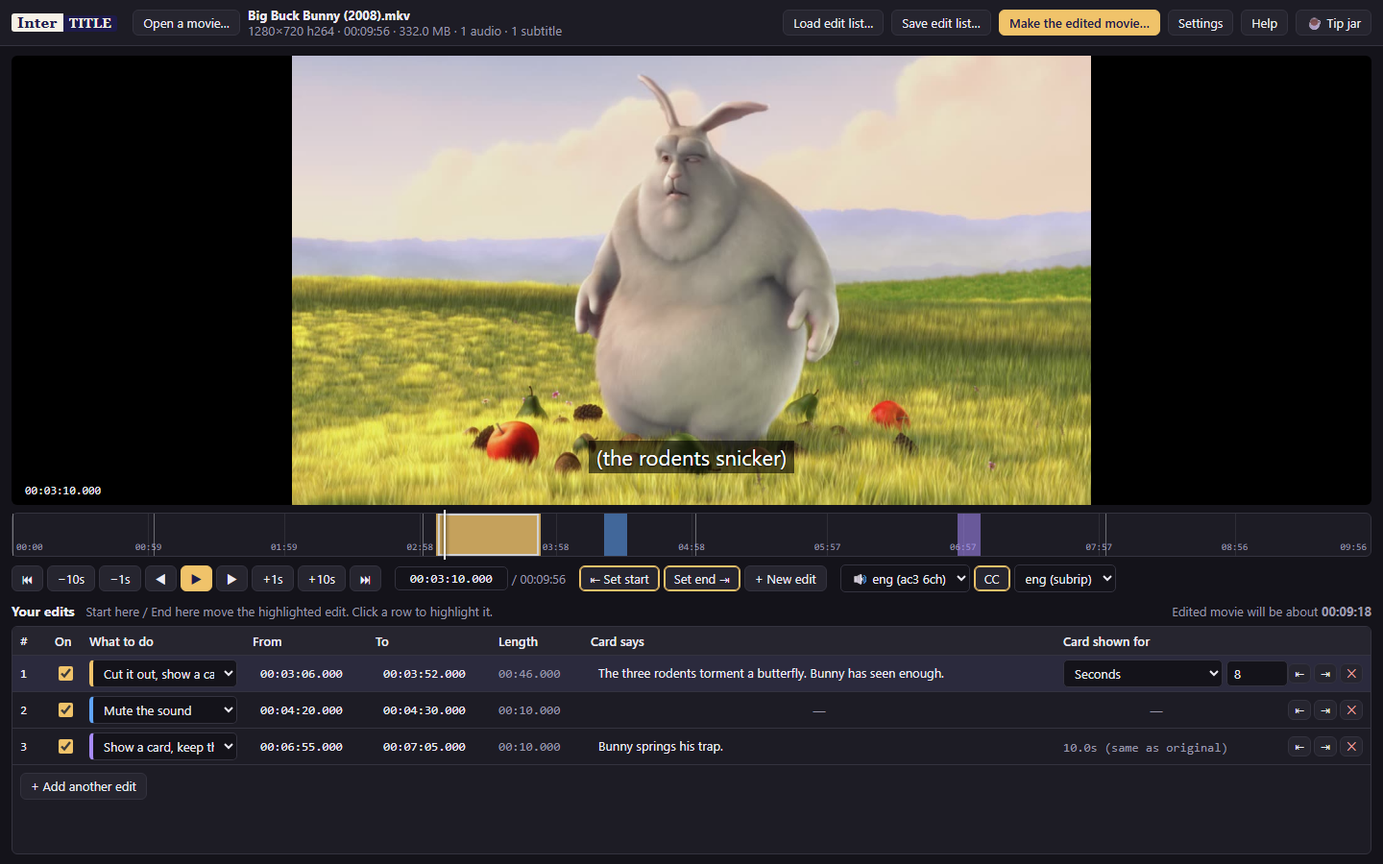
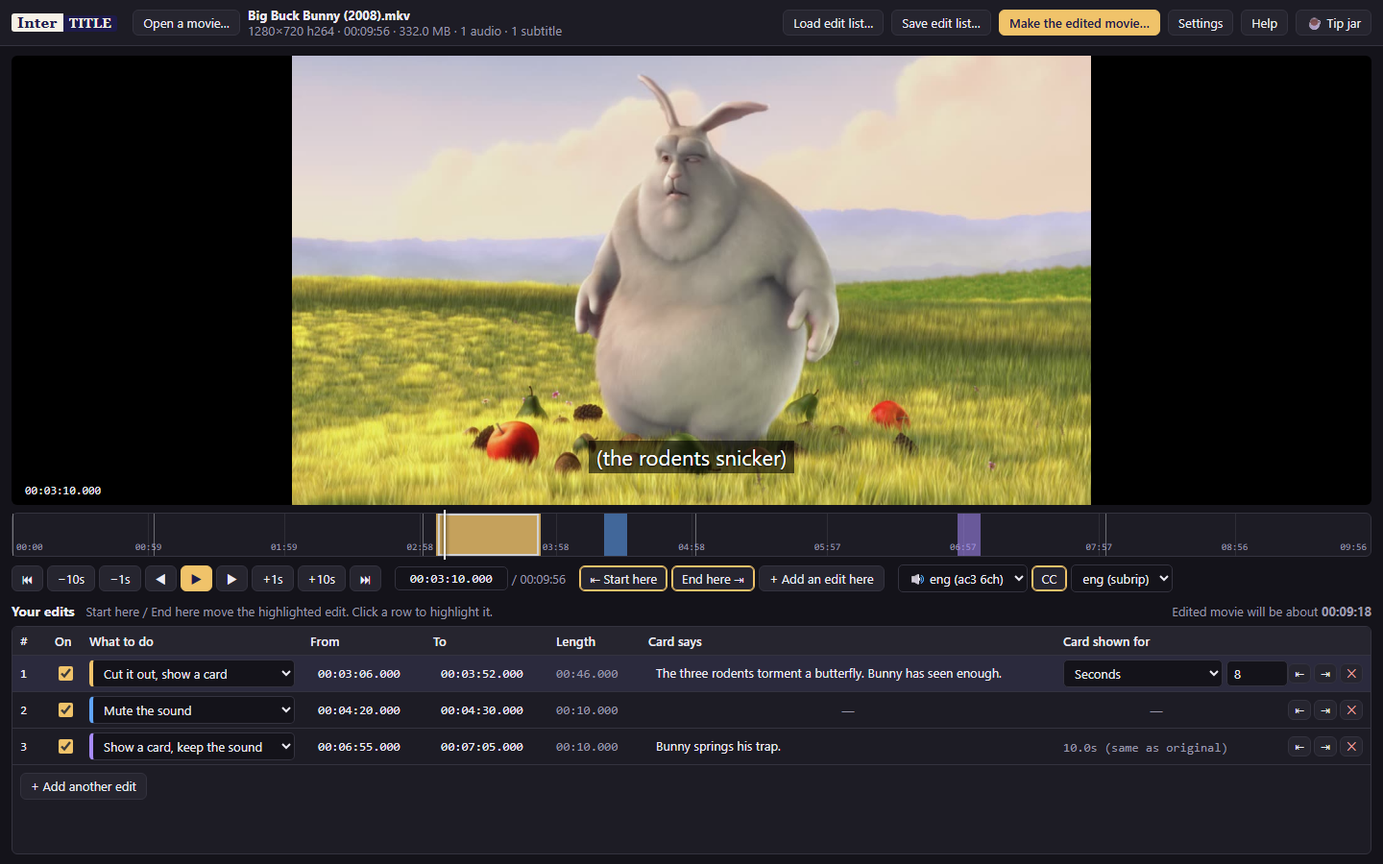
Website: demo video, screenshots, direct downloads, plain-language FAQ; publish script

diff --git a/site/index.html b/site/index.html
@@ -3,10 +3,11 @@
 <head>
 <meta charset="utf-8">
 <meta name="viewport" content="width=device-width, initial-scale=1">
-<title>Intertitle — skip scenes, mute lines, drop in a title card. No re-encoding.</title>
-<meta name="description" content="Intertitle is a free, open source Windows app that cuts scenes out of your movies, mutes lines and inserts text cards, without re-encoding. 4K HEVC in minutes, subtitles kept.">
+<title>Intertitle — skip a scene, mute a line, show a card instead. No re-encoding.</title>
+<meta name="description" content="Intertitle is a free app that cuts scenes out of your movies, mutes lines and puts a text card in their place. Nothing is re-encoded, so it takes minutes, loses no quality, and the whole app is under 2 MB.">
 <meta property="og:title" content="Intertitle">
-<meta property="og:description" content="Skip scenes, mute lines and drop in a title card. No re-encoding, no quality loss.">
+<meta property="og:description" content="Skip a scene, mute a line, show a card that says what happened. No re-encoding. Free, under 2 MB.">
+<meta property="og:image" content="https://intertitle.pages.dev/img/app-main.png">
 <meta property="og:type" content="website">
 <link rel="icon" href="favicon.png">
 <link rel="preconnect" href="https://fonts.googleapis.com">
@@ -14,67 +15,74 @@
 <link href="https://fonts.googleapis.com/css2?family=Fraunces:opsz,wght@9..144,600&family=Inter:wght@400;500;600&display=swap" rel="stylesheet">
 <style>
   :root{
-    --ink:#f2efe6; --ink-dim:#a9a49a; --bg:#15131d; --bg2:#1e1b2b; --line:#2f2c3d;
+    --ink:#f2efe6; --ink-dim:#aaa59b; --bg:#15131d; --bg2:#1e1b2b; --line:#2f2c3d;
     --accent:#f0c36a; --accent-ink:#1e1b4b; --card:#f5f0e6;
     --remove:#e2574c; --replace:#f0c36a; --text:#a78bfa; --mute:#60a5fa;
   }
   *{box-sizing:border-box}
-  html,body{margin:0;background:var(--bg);color:var(--ink);font-family:Inter,system-ui,sans-serif;line-height:1.55}
+  html,body{margin:0;background:var(--bg);color:var(--ink);font-family:Inter,system-ui,sans-serif;line-height:1.55;font-size:17px}
   a{color:var(--accent)}
   h1,h2,h3{font-family:Fraunces,Georgia,serif;font-weight:600;letter-spacing:-.01em;margin:0 0 .4em}
-  h1{font-size:clamp(34px,6vw,60px);line-height:1.05}
-  h2{font-size:clamp(24px,3.4vw,34px);margin-top:0}
+  h1{font-size:clamp(34px,5.6vw,58px);line-height:1.05}
+  h2{font-size:clamp(26px,3.6vw,36px)}
+  h3{font-size:20px}
   p{margin:.4em 0 1em}
-  .wrap{max-width:1040px;margin:0 auto;padding:0 22px}
+  .wrap{max-width:1080px;margin:0 auto;padding:0 22px}
   header{display:flex;align-items:center;gap:14px;padding:18px 0}
-  .brand{display:inline-flex;align-items:baseline;font-family:Fraunces,Georgia,serif;font-weight:600}
+  .brand{display:inline-flex;align-items:baseline;font-family:Fraunces,Georgia,serif;font-weight:600;text-decoration:none}
   .brand span:first-child{background:var(--card);color:var(--accent-ink);padding:2px 9px;border-radius:5px 0 0 5px;font-size:20px}
   .brand span:last-child{background:var(--accent-ink);color:var(--card);padding:2px 9px;border-radius:0 5px 5px 0;font-size:17px;letter-spacing:.06em}
-  nav{margin-left:auto;display:flex;gap:18px;font-size:14px}
+  nav{margin-left:auto;display:flex;gap:20px;font-size:15px}
   nav a{color:var(--ink-dim);text-decoration:none}
   nav a:hover{color:var(--ink)}
-  .hero{padding:56px 0 30px;display:grid;grid-template-columns:1.1fr .9fr;gap:40px;align-items:center}
-  .hero p.lead{font-size:19px;color:var(--ink-dim);max-width:34em}
-  .cta{display:flex;flex-wrap:wrap;gap:12px;margin-top:22px}
-  .btn{display:inline-block;padding:12px 20px;border-radius:9px;font-weight:600;text-decoration:none;border:1px solid var(--line);color:var(--ink);background:var(--bg2)}
-  .btn.primary{background:var(--accent);color:var(--accent-ink);border-color:var(--accent)}
-  .btn:hover{filter:brightness(1.08)}
-  .req{font-size:13px;color:var(--ink-dim);margin-top:10px}
-  /* fake card demo */
-  .demo{background:#000;border-radius:12px;border:1px solid var(--line);overflow:hidden;box-shadow:0 30px 80px rgba(0,0,0,.5)}
-  .demo .screen{aspect-ratio:16/9;display:flex;align-items:center;justify-content:center;text-align:center;padding:8%;font-family:Arial,Helvetica,sans-serif;color:#fff;font-size:clamp(14px,1.6vw,20px);line-height:1.5;background:#000;animation:fade 6s ease-in-out infinite}
-  @keyframes fade{0%,12%{opacity:0}25%,85%{opacity:1}100%{opacity:0}}
-  .demo .bar{display:flex;height:34px;background:#1a1a22;position:relative}
-  .demo .bar i{flex:1;background:linear-gradient(135deg,#3b2a4a,#1e2a3a);border-right:1px solid #000}
-  .demo .bar b{position:absolute;top:0;bottom:0;opacity:.7}
-  .demo .bar .r{left:18%;width:9%;background:var(--remove)}
-  .demo .bar .c{left:47%;width:6%;background:var(--replace)}
-  .demo .bar .m{left:71%;width:4%;background:var(--mute)}
-  .demo .bar .t{left:84%;width:5%;background:var(--text)}
-  .demo .bar .ph{position:absolute;top:-3px;bottom:-3px;left:50%;width:2px;background:#fff}
-  .grid{display:grid;grid-template-columns:repeat(auto-fit,minmax(230px,1fr));gap:16px;margin:26px 0}
+  section{padding:44px 0;border-top:1px solid var(--line)}
+  .lead{font-size:20px;color:var(--ink-dim);max-width:36em}
+  .hero{padding:40px 0 34px;text-align:center}
+  .hero .lead{margin:0 auto 22px}
+  .demo{max-width:900px;margin:0 auto;background:#000;border-radius:14px;border:1px solid var(--line);overflow:hidden;box-shadow:0 30px 80px rgba(0,0,0,.55)}
+  .demo video{display:block;width:100%;height:auto}
+  .caption{font-size:14px;color:var(--ink-dim);margin:12px auto 0;max-width:60em}
+  .fact{display:inline-block;background:var(--bg2);border:1px solid var(--line);border-radius:99px;padding:5px 14px;font-size:14px;color:var(--ink-dim);margin:4px 3px}
+  .fact b{color:var(--accent)}
+  .dl{display:grid;grid-template-columns:repeat(auto-fit,minmax(250px,1fr));gap:14px;margin:18px 0 8px}
+  .dlbtn{display:flex;flex-direction:column;gap:2px;padding:16px 18px;border-radius:12px;text-decoration:none;color:var(--accent-ink);background:var(--accent);border:1px solid var(--accent);transition:.15s}
+  .dlbtn:hover{filter:brightness(1.07);transform:translateY(-1px)}
+  .dlbtn.alt{background:var(--bg2);color:var(--ink);border-color:var(--line)}
+  .dlbtn b{font-size:18px}
+  .dlbtn span{font-size:13px;opacity:.85}
+  .note{font-size:14px;color:var(--ink-dim)}
+  .steps{counter-reset:s;list-style:none;padding:0;margin:0;display:grid;grid-template-columns:repeat(auto-fit,minmax(240px,1fr));gap:16px}
+  .steps li{background:var(--bg2);border:1px solid var(--line);border-radius:12px;padding:18px;color:var(--ink-dim);font-size:16px}
+  .steps li::before{counter-increment:s;content:counter(s);display:block;font-family:Fraunces,serif;font-size:30px;color:var(--accent);margin-bottom:6px}
+  .steps li b{color:var(--ink)}
+  .shots{display:grid;gap:22px;margin-top:26px}
+  .shot{background:var(--bg2);border:1px solid var(--line);border-radius:14px;overflow:hidden}
+  .shot img{display:block;width:100%;height:auto}
+  .shot .cap{padding:12px 16px;font-size:15px;color:var(--ink-dim)}
+  .shot .cap b{color:var(--ink)}
+  .ba{display:grid;grid-template-columns:1fr auto 1fr;gap:14px;align-items:center;margin-top:10px}
+  .ba img{width:100%;height:auto;border-radius:10px;border:1px solid var(--line);display:block}
+  .ba .arrow{font-size:34px;color:var(--accent)}
+  .ba .lbl{font-size:14px;color:var(--ink-dim);margin-top:6px}
+  .grid{display:grid;grid-template-columns:repeat(auto-fit,minmax(230px,1fr));gap:16px;margin:22px 0}
   .tile{background:var(--bg2);border:1px solid var(--line);border-radius:12px;padding:18px 18px 12px}
-  .tile h3{font-size:18px;margin-bottom:6px}
-  .tile p{color:var(--ink-dim);font-size:15px;margin:0 0 .4em}
-  .tile .tag{display:inline-block;font-size:12px;padding:2px 8px;border-radius:99px;margin-bottom:10px;color:#000;font-weight:600}
-  section{padding:34px 0;border-top:1px solid var(--line)}
-  table{border-collapse:collapse;width:100%;font-size:15px}
-  th,td{text-align:left;padding:8px 10px;border-bottom:1px solid var(--line);vertical-align:top}
-  th{color:var(--ink-dim);font-weight:500}
-  kbd{display:inline-block;padding:0 6px;border:1px solid var(--line);border-bottom-width:2px;border-radius:4px;background:var(--bg2);font-family:Consolas,monospace;font-size:12px;line-height:19px}
+  .tile h3{margin-bottom:6px}
+  .tile p{color:var(--ink-dim);font-size:16px;margin:0 0 .4em}
+  .tile .tag{display:inline-block;font-size:12px;padding:2px 9px;border-radius:99px;margin-bottom:10px;color:#000;font-weight:600}
+  details{background:var(--bg2);border:1px solid var(--line);border-radius:10px;padding:12px 16px;margin:8px 0}
+  summary{cursor:pointer;font-weight:600;font-size:17px}
+  details p{color:var(--ink-dim);margin:.6em 0 .2em}
+  kbd{display:inline-block;padding:0 6px;border:1px solid var(--line);border-bottom-width:2px;border-radius:4px;background:var(--bg2);font-family:Consolas,monospace;font-size:13px;line-height:20px}
   pre{background:#0d0c14;border:1px solid var(--line);border-radius:10px;padding:14px 16px;overflow:auto;font-size:13px;line-height:1.5}
   code{font-family:Consolas,"Cascadia Mono",monospace}
-  .steps{counter-reset:s;list-style:none;padding:0;margin:0;display:grid;grid-template-columns:repeat(auto-fit,minmax(220px,1fr));gap:16px}
-  .steps li{background:var(--bg2);border:1px solid var(--line);border-radius:12px;padding:18px;color:var(--ink-dim);font-size:15px}
-  .steps li::before{counter-increment:s;content:counter(s);display:block;font-family:Fraunces,serif;font-size:28px;color:var(--accent);margin-bottom:6px}
-  .steps li b{color:var(--ink)}
   .tipcard{display:inline-flex;align-items:center;gap:8px;padding:12px 18px;border:1px dashed var(--accent);border-radius:12px;color:var(--ink);text-decoration:none;background:var(--bg2);transition:.15s}
   .tipcard:hover{transform:translateY(-1px);border-style:solid}
   .tipcard b{color:var(--accent)}
   .support{display:flex;flex-wrap:wrap;gap:12px;align-items:center}
+  .btn{display:inline-block;padding:11px 18px;border-radius:9px;font-weight:600;text-decoration:none;border:1px solid var(--line);color:var(--ink);background:var(--bg2)}
   footer{padding:30px 0 50px;color:var(--ink-dim);font-size:14px;border-top:1px solid var(--line)}
   footer a{color:var(--ink-dim)}
-  @media (max-width:800px){.hero{grid-template-columns:1fr;padding-top:30px}nav{display:none}}
+  @media (max-width:760px){nav{display:none}.ba{grid-template-columns:1fr}.ba .arrow{transform:rotate(90deg);text-align:center}}
 </style>
 </head>
 <body>
@@ -82,75 +90,117 @@
   <header>
     <a class="brand" href="/" aria-label="Intertitle"><span>Inter</span><span>TITLE</span></a>
     <nav>
-      <a href="#how">How it works</a>
-      <a href="#edits">Edits</a>
-      <a href="#cli">Command line</a>
-      <a href="https://github.com/leecyrille/intertitle">GitHub</a>
+      <a href="#download">Download</a>
+      <a href="#what">What it does</a>
+      <a href="#how">How to use it</a>
+      <a href="#faq">Questions</a>
     </nav>
   </header>
 
   <div class="hero">
-    <div>
-      <h1>Skip scenes. Mute lines.<br>Drop in a title card.</h1>
-      <p class="lead">Intertitle edits the movies you already own without re-encoding them. Cut the scene, silence the line, put up a card that says what you missed. A 4K film renders in a couple of minutes with zero quality loss, subtitles and chapters intact.</p>
-      <div class="cta">
-        <a class="btn primary" href="https://github.com/leecyrille/intertitle/releases/latest">Download for Windows</a>
-        <a class="btn" href="https://github.com/leecyrille/intertitle">Source on GitHub</a>
-      </div>
-      <p class="req">Free and open source (MIT). Needs <a href="https://www.gyan.dev/ffmpeg/builds/">ffmpeg</a> and <a href="https://mkvtoolnix.download/">MKVToolNix</a> installed. macOS and Linux builds coming later.</p>
+    <h1>Skip a scene. Mute a line.<br>Show a card that says what happened.</h1>
+    <p class="lead">Intertitle edits the movies you already own. Cut the part you'd rather not watch, silence the line, and put up a card so the story still makes sense. Nothing is re-encoded, so it takes a couple of minutes even for a 4K film, and the picture is exactly as good as it was.</p>
+    <div class="demo">
+      <video controls autoplay muted loop playsinline poster="demo-poster.jpg" preload="metadata">
+        <source src="demo.mp4" type="video/mp4">
+      </video>
     </div>
-    <div class="demo" aria-hidden="true">
-      <div class="screen">He just woke up.<br><br>He can't remember anything<br>from the last long while.</div>
-      <div class="bar"><i></i><i></i><i></i><i></i><i></i><i></i><i></i><i></i><i></i><i></i><i></i><i></i><b class="r"></b><b class="c"></b><b class="m"></b><b class="t"></b><b class="ph"></b></div>
+    <p class="caption">Here is <i>Big Buck Bunny</i> with one scene replaced. The three rodents are about to torment a butterfly; instead a card explains it and the film carries on. Making this took five seconds. Only the eight-second card was encoded. Turn the sound on to hear it play through the cut.</p>
+    <div>
+      <span class="fact">Whole app <b>under 2&nbsp;MB</b></span>
+      <span class="fact"><b>No re-encoding</b>, no quality loss</span>
+      <span class="fact">4K film edited in <b>minutes</b></span>
+      <span class="fact">Subtitles and chapters <b>kept</b></span>
+      <span class="fact"><b>Free</b> and open source</span>
     </div>
   </div>
 
-  <section id="edits">
-    <h2>Four kinds of edit</h2>
+  <section id="download">
+    <h2>Download</h2>
+    <p class="lead">One small file. Install it, open a movie, and you're editing.</p>
+    <div class="dl">
+      <a class="dlbtn" href="dl/Intertitle-Setup-Windows.exe" download><b>Windows</b><span>Intertitle-Setup-Windows.exe · 1.3 MB · Windows 10 and 11</span></a>
+      <a class="dlbtn alt" href="dl/Intertitle-macOS.dmg" download><b>macOS</b><span>Intertitle-macOS.dmg · 3.5 MB · Apple silicon and Intel</span></a>
+      <a class="dlbtn alt" href="dl/Intertitle-Linux.deb" download><b>Linux</b><span>Intertitle-Linux.deb · 2.2 MB · Ubuntu, Debian, Mint</span></a>
+    </div>
+    <p class="note">The macOS and Linux builds come from the same code but have not been tested on real machines yet. If something is off, <a href="https://github.com/leecyrille/intertitle/issues">please say so</a>. Windows may warn that the installer is from an unknown publisher: it is not signed yet, choose "More info" then "Run anyway". On a Mac, right-click the app and choose Open the first time.</p>
+    <h3>You also need two free helper programs</h3>
+    <p class="note">Intertitle does the thinking; two well-known open source tools do the heavy lifting. Install them once and Intertitle finds them by itself.</p>
+    <div class="grid" style="margin-top:8px">
+      <div class="tile"><h3>ffmpeg</h3><p>Reads every video format and draws the cards.</p><p><a href="https://www.gyan.dev/ffmpeg/builds/">Windows download</a> · Mac: <code>brew install ffmpeg</code> · Linux: <code>sudo apt install ffmpeg</code></p><p class="note">On Windows, the quickest way is to open a terminal and run <code>winget install Gyan.FFmpeg</code>.</p></div>
+      <div class="tile"><h3>MKVToolNix</h3><p>Cuts the movie at clean points and joins it back together without touching the picture.</p><p><a href="https://mkvtoolnix.download/downloads.html">Download for Windows, Mac and Linux</a></p><p class="note">On Windows you can also run <code>winget install MoritzBunkus.MKVToolNix</code>.</p></div>
+    </div>
+    <p class="note">If Intertitle can't find them it says so at the top of the window, with a button to point at the programs. Prefer the command line? There is a tiny <a href="dl/intertitle-cli-windows.exe">Windows</a>, <a href="dl/intertitle-cli-macos">Mac</a> and <a href="dl/intertitle-cli-linux">Linux</a> tool that does the same job from a terminal.</p>
+  </section>
+
+  <section id="what">
+    <h2>What it does</h2>
+    <p class="lead">You mark a stretch of the movie and choose one of four things to do with it.</p>
     <div class="grid">
-      <div class="tile"><span class="tag" style="background:var(--remove)">Remove</span><h3>Cut it out</h3><p>The range disappears. The movie gets shorter and everything after it shifts up, subtitles included.</p></div>
-      <div class="tile"><span class="tag" style="background:var(--replace)">Replace with card</span><h3>Say what happened</h3><p>The range is cut and a text card takes its place, for ten seconds, or exactly as long as the original if you prefer.</p></div>
-      <div class="tile"><span class="tag" style="background:var(--text)">Text over video</span><h3>Keep the sound</h3><p>The picture becomes a card while the dialogue and music carry on. Nothing changes length.</p></div>
-      <div class="tile"><span class="tag" style="background:var(--mute)">Mute</span><h3>Silence a line</h3><p>The picture stays, the audio goes quiet for exactly the range you mark. Real silence in the same codec, so the rest of the track is untouched.</p></div>
+      <div class="tile"><span class="tag" style="background:var(--remove)">Cut it out</span><h3>The part is gone</h3><p>The movie skips straight over it. Everything after moves up, subtitles included.</p></div>
+      <div class="tile"><span class="tag" style="background:var(--replace)">Cut it out, show a card</span><h3>Say what happened</h3><p>The part is gone and a card with your words takes its place, for a few seconds or exactly as long as the original.</p></div>
+      <div class="tile"><span class="tag" style="background:var(--text)">Show a card, keep the sound</span><h3>Hide the picture only</h3><p>The picture becomes a card while the dialogue and music carry on. Nothing changes length.</p></div>
+      <div class="tile"><span class="tag" style="background:var(--mute)">Mute the sound</span><h3>Silence a line</h3><p>The picture stays, the sound goes quiet for exactly the stretch you marked.</p></div>
+    </div>
+    <div class="ba">
+      <div><img src="before.jpg" alt="The original scene: the rodents with the butterfly"><div class="lbl">Original, 3:06 to 3:52: the rodents and the butterfly</div></div>
+      <div class="arrow">→</div>
+      <div><img src="after-card.jpg" alt="The card that replaces the scene"><div class="lbl">Edited: an eight-second card, then the film continues</div></div>
     </div>
   </section>
 
   <section id="how">
-    <h2>How it works</h2>
+    <h2>How to use it</h2>
     <ol class="steps">
-      <li><b>Open a movie.</b> MKV, MP4, MOV, WebM, AVI, TS. Thumbnails fill the scrub bar in the background.</li>
-      <li><b>Scrub and mark.</b> Click, drag, step by frame. <kbd>I</kbd> sets a start, <kbd>O</kbd> an end. Play a low-res preview with <kbd>Space</kbd>, show subtitles with <kbd>C</kbd>.</li>
-      <li><b>Pick the action.</b> Every edit sits in a list with aligned columns: type, start, end, length, card text, card length. Whatever is highlighted is what the marks change.</li>
-      <li><b>Render.</b> Only the cards are encoded. The rest is split at keyframes and copied byte for byte, then joined back by mkvmerge.</li>
+      <li><b>Open a movie.</b> MKV, MP4, MOV, AVI, WebM, TS, most things. If you saved edits for this movie before, they load by themselves.</li>
+      <li><b>Find the spot.</b> Drag along the timeline and the picture follows. Arrow keys step one frame, the mouse wheel over the picture does too. Subtitles show on the preview so you know where you are.</li>
+      <li><b>Mark it.</b> Click <b>Start here</b>, move to the end, click <b>End here</b>. Then pick what to do with it in the list and type what the card should say.</li>
+      <li><b>Make the edited movie.</b> A new file appears next to the original. The original is never changed.</li>
     </ol>
-    <p style="margin-top:22px;color:var(--ink-dim)">Every button shows its keyboard shortcut when you hover it. Edit lists save as a small CSV next to the movie and load again automatically. Works on 4K HEVC, Dolby Vision, Atmos, TrueHD, DTS, 35 subtitle tracks, the lot.</p>
+    <div class="shots">
+      <div class="shot"><img src="img/app-main.png" alt="Intertitle with Big Buck Bunny open and three edits in the list"><div class="cap"><b>The whole app.</b> The picture and timeline above, your edits below. Coloured blocks on the timeline show where the edits are. Every column is always there; a dash means it doesn't apply to that kind of edit. Hover any button to see what it does and its keyboard shortcut.</div></div>
+      <div class="shot"><img src="img/app-render.png" alt="The Make the edited movie dialog"><div class="cap"><b>Making the movie.</b> Before it starts you see how long the result will be and how little has to be encoded. Cuts land on the nearest clean cut point in the video, usually within a second of where you clicked, and the exact times are shown when it finishes.</div></div>
+    </div>
+  </section>
+
+  <section id="faq">
+    <h2>Questions</h2>
+    <details open><summary>Does it lower the quality?</summary><p>No. The movie is cut at clean points and copied byte for byte. The only things encoded are the cards themselves, a few seconds of black with text on it. A 23&nbsp;GB 4K film went through with 30 seconds of cards and took about four minutes, most of it copying.</p></details>
+    <details><summary>Why is the app so small?</summary><p>It is under 2&nbsp;MB because it doesn't carry its own video engine. It drives ffmpeg and MKVToolNix, which you install once. Both are free, open source, and used by most of the video tools you've heard of.</p></details>
+    <details><summary>What happens to subtitles?</summary><p>Text subtitles (the usual kind) are kept and retimed so they still line up after a cut. Picture-based subtitles from Blu-rays are left out if the running time changes, and Intertitle tells you before it starts. Chapters are kept too.</p></details>
+    <details><summary>Why did my cut land a second away from where I clicked?</summary><p>Video is stored in groups of frames that only start on a "keyframe", so a cut without re-encoding has to start on one. Intertitle picks the nearest, which is normally within a second. If a scene's edge matters to the frame, mark it a little wider.</p></details>
+    <details><summary>Can I save my edits and reuse them?</summary><p>Yes. <b>Save edit list</b> writes a small file next to the movie. Open the same movie later and the edits come back. The file is plain text, so you can share it with someone who has the same movie.</p></details>
+    <details><summary>Which files can I open?</summary><p>MKV, MP4, MOV, WebM, AVI, TS and M2TS, in any resolution up to 4K and beyond, with any audio (Dolby Atmos, TrueHD, DTS, AAC, and so on) and any number of subtitle tracks. The edited movie is saved as MKV, which keeps everything, or MP4 if you prefer.</p></details>
+    <details><summary>Is the original changed?</summary><p>Never. Intertitle only reads it and writes a new file called "your movie (edited)".</p></details>
+    <details><summary>Is it really free?</summary><p>Yes, and open source under the MIT license. If it saved you an evening, there is a tip jar at the bottom of this page.</p></details>
   </section>
 
   <section id="cli">
-    <h2>Also a command-line tool</h2>
-    <p style="color:var(--ink-dim)">The same engine ships as <code>intertitle-cli</code> for scripts and headless boxes. Edit lists are plain CSV you can write by hand.</p>
+    <details><summary>For the technically minded: command line and the edit-list format</summary>
+      <p>The same engine ships as <code>intertitle-cli</code>. Edit lists are plain CSV.</p>
 <pre><code>intertitle-cli "Movie.mkv" --edits "Movie.csv"
 intertitle-cli "Movie.mkv" --remove 1:02:15-1:03:00 --mute 10:00-10:05 \
                --card 20:00-21:00 "Rocky saved him in the lab." --out "Movie (edited).mkv"</code></pre>
 <pre><code>start,end,action,text,card_seconds,enabled
-00:00:55.000,00:03:36.000,replace,"He just woke up. He can't remember anything from the last long while.",10,yes
-01:54:58.000,01:55:35.000,replace,Rocky saved him in the lab.,match,yes
-02:12:41.000,02:13:39.000,text-keep-audio,They put him to sleep and made him go.,match,yes
-00:40:00.000,00:40:05.000,mute,-,-,yes</code></pre>
+00:03:06.000,00:03:52.000,replace,"The three rodents torment a butterfly. Bunny has seen enough.",8,yes
+00:04:20.000,00:04:30.000,mute,-,-,yes
+00:06:55.000,00:07:05.000,text-keep-audio,Bunny springs his trap.,match,yes</code></pre>
+      <p>Source code, bug reports and older versions live on <a href="https://github.com/leecyrille/intertitle">GitHub</a>.</p>
+    </details>
   </section>
 
   <section id="support">
     <h2>Support the project</h2>
-    <p style="color:var(--ink-dim)">Intertitle is free and always will be. If it saved you an evening, a tip keeps the lights on.</p>
+    <p class="lead">Intertitle is free and always will be. If it saved you an evening, a tip keeps the lights on.</p>
     <div class="support">
       <a class="tipcard" href="https://pactotech.com/products/intertitle-tip-jar" target="_blank" rel="noopener">&#9749; Enjoying this free tool? <b>Leave a tip</b></a>
       <a class="btn" href="https://github.com/sponsors/leecyrille" target="_blank" rel="noopener">&hearts; GitHub Sponsors</a>
-      <a class="btn" href="https://github.com/leecyrille/intertitle" target="_blank" rel="noopener">&#9733; Star on GitHub</a>
     </div>
   </section>
 
   <footer>
-    <span>Intertitle is MIT licensed · by <a href="https://pactotech.com/" target="_blank" rel="noopener">Pacto Tech</a> · <a href="https://github.com/leecyrille/intertitle/issues">Report a problem</a></span>
+    <span>Intertitle is MIT licensed · by <a href="https://pactotech.com/" target="_blank" rel="noopener">Pacto Tech</a> · <a href="https://github.com/leecyrille/intertitle">Source on GitHub</a> · <a href="https://github.com/leecyrille/intertitle/issues">Report a problem</a></span><br>
+    <span>The demo uses <a href="https://peach.blender.org/">Big Buck Bunny</a> © 2008 Blender Foundation, <a href="https://creativecommons.org/licenses/by/3.0/">CC BY 3.0</a>.</span>
   </footer>
 </div>
 </body>

diff --git a/README.md b/README.md
@@ -10,10 +10,12 @@
 </p>
 
 <p align="center">
-  <a href="https://intertitle.pages.dev">Website</a> ·
-  <a href="https://github.com/leecyrille/intertitle/releases">Downloads</a> ·
+  <a href="https://intertitle.pages.dev"><b>Download for Windows, macOS or Linux</b></a> ·
+  <a href="https://intertitle.pages.dev">Website with a demo</a> ·
   <a href="https://pactotech.com/products/intertitle-tip-jar">Leave a tip</a>
 </p>
+
+<p align="center"><img src="site/img/app-main.png" width="820" alt="Intertitle with Big Buck Bunny open and three edits"></p>
 
 ---
 
@@ -44,17 +46,18 @@ at keyframes and stream-copied, so there is no quality loss and no waiting hours
 
 ## Using the app
 
-1. **Open a movie.** Thumbnails fill the scrub bar in the background.
-2. **Scrub** to the spot you care about. Click the bar, drag, use the arrow keys (one frame), Shift+arrows
-   (one second), Ctrl+arrows (ten seconds). Space plays a low-resolution preview with sound. Press `C`
-   to show subtitles on the preview and pick the track in the dropdown.
-3. **Mark it.** Press `I` to set the start and `O` to set the end. With nothing selected that creates a new
-   edit; with an edit highlighted in the list, the buttons change *that* edit. `N` adds a new edit at the
-   playhead.
+1. **Open a movie.** Edits you saved for it before load automatically.
+2. **Scrub** to the spot you care about. Drag the timeline and the picture follows (keyframe grabs, cached,
+   so it stays quick even on 4K), use the arrow keys or the mouse wheel over the picture for single
+   frames, Shift+arrows for a second, Ctrl+arrows for ten. Space plays a low-resolution preview with sound.
+   Subtitles show on the preview by default; pick the subtitle and audio track in the dropdowns.
+3. **Mark it.** Press `I` (Start here) and `O` (End here). With nothing highlighted that creates a new
+   edit; with an edit highlighted in the list, the buttons change *that* edit. `N` or **Add another edit**
+   adds one at the playhead.
 4. **Choose the action** in the list and type the card text if there is one. Every column is always shown;
    a dash means "does not apply".
-5. **Render.** The dialog tells you how long the result will be, how many seconds have to be encoded
-   (usually 10 or 20), and where the cuts actually landed.
+5. **Make the edited movie.** The dialog tells you how long the result will be, how many seconds have to be
+   encoded (usually 10 or 20), and where the cuts actually landed. The whole app is under 2 MB.
 
 Hover any button to see what it does and its keyboard shortcut. Press `?` for the full list.
 
@@ -126,7 +129,9 @@ The code is split in two: `src-tauri/core` is a plain Rust crate with everything
 mkvmerge (probing, keyframes, timeline mapping, subtitle retiming, card encoding, the pipeline and the
 CLI), and `src-tauri` is the thin Tauri shell around it. The React UI lives in `src/`.
 
-macOS and Linux builds should work with the same commands; they are not tested yet.
+macOS (universal) and Linux (.deb) builds are produced by CI alongside Windows; they have not been tested
+on real machines yet. `scripts/publish-site.sh vX.Y.Z` copies a release's installers into `site/dl` and
+deploys the website.
 
 ## Support the project
 
